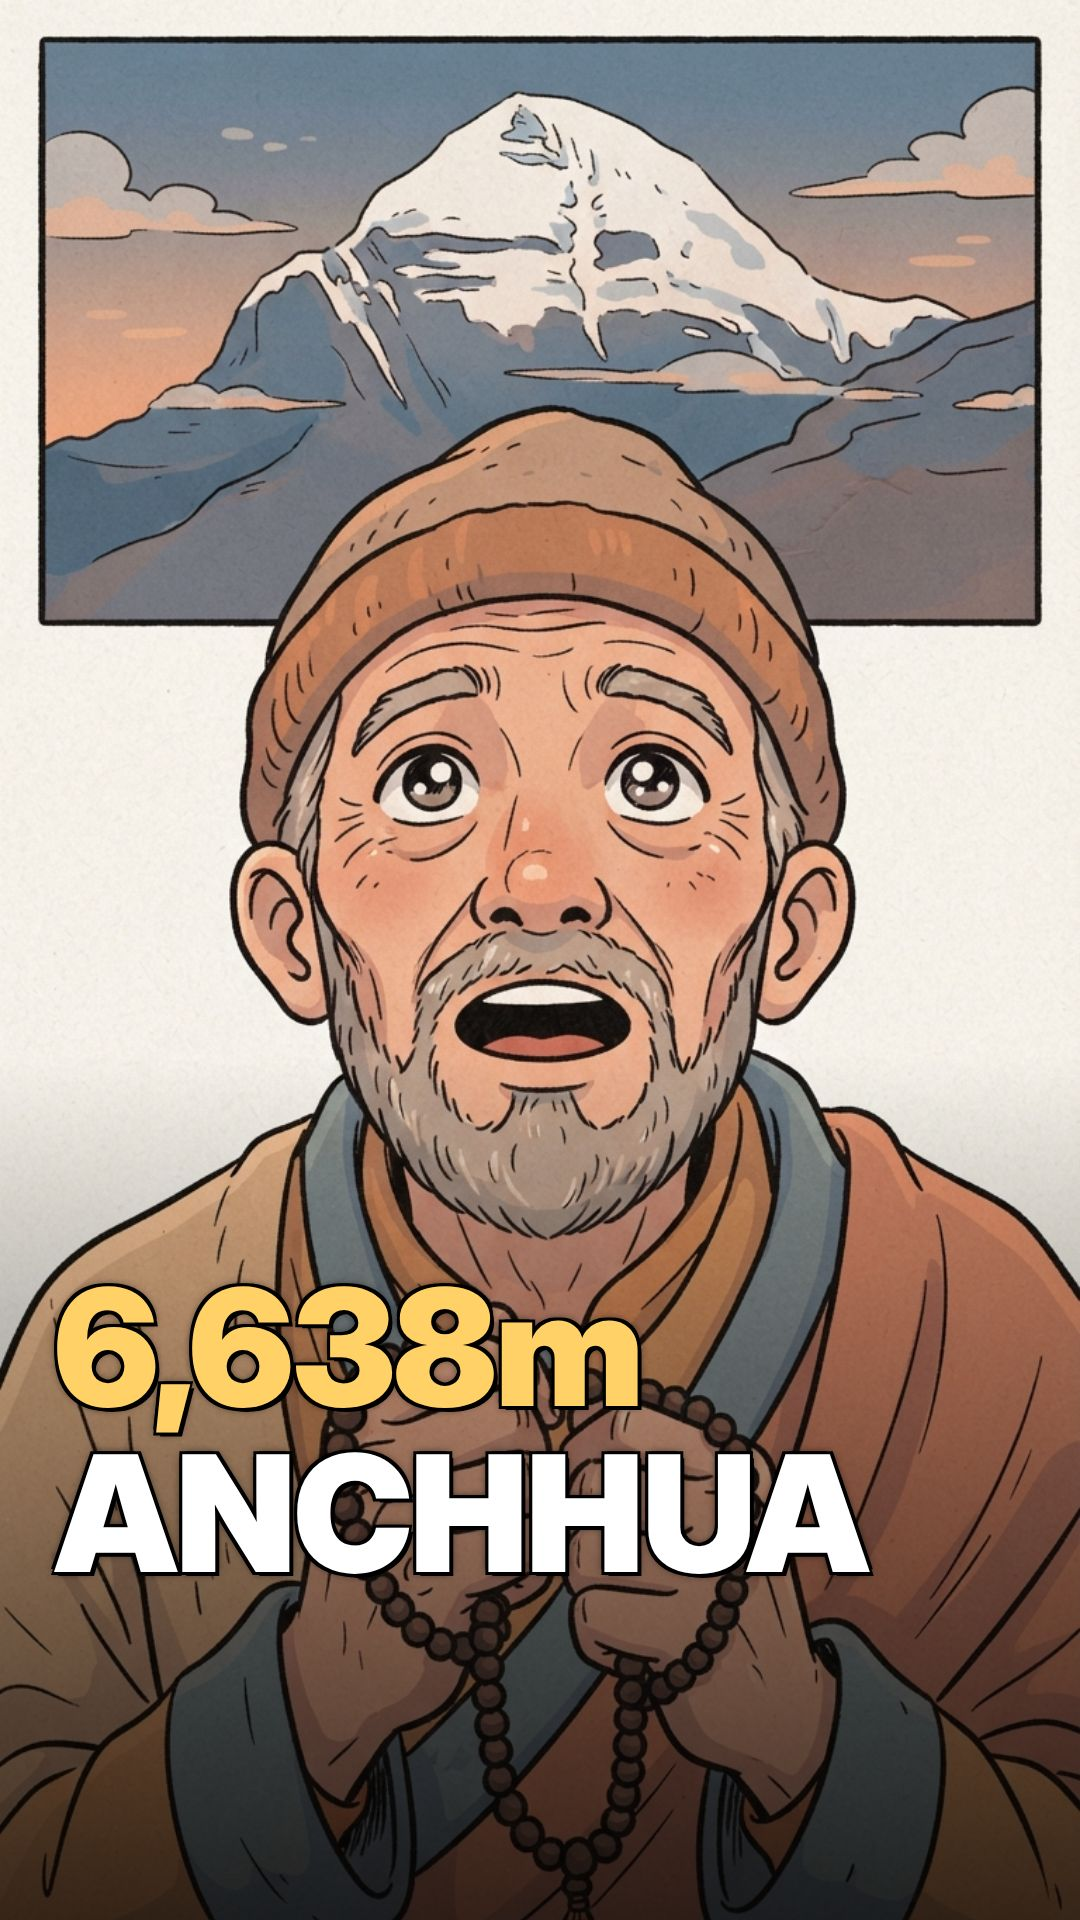
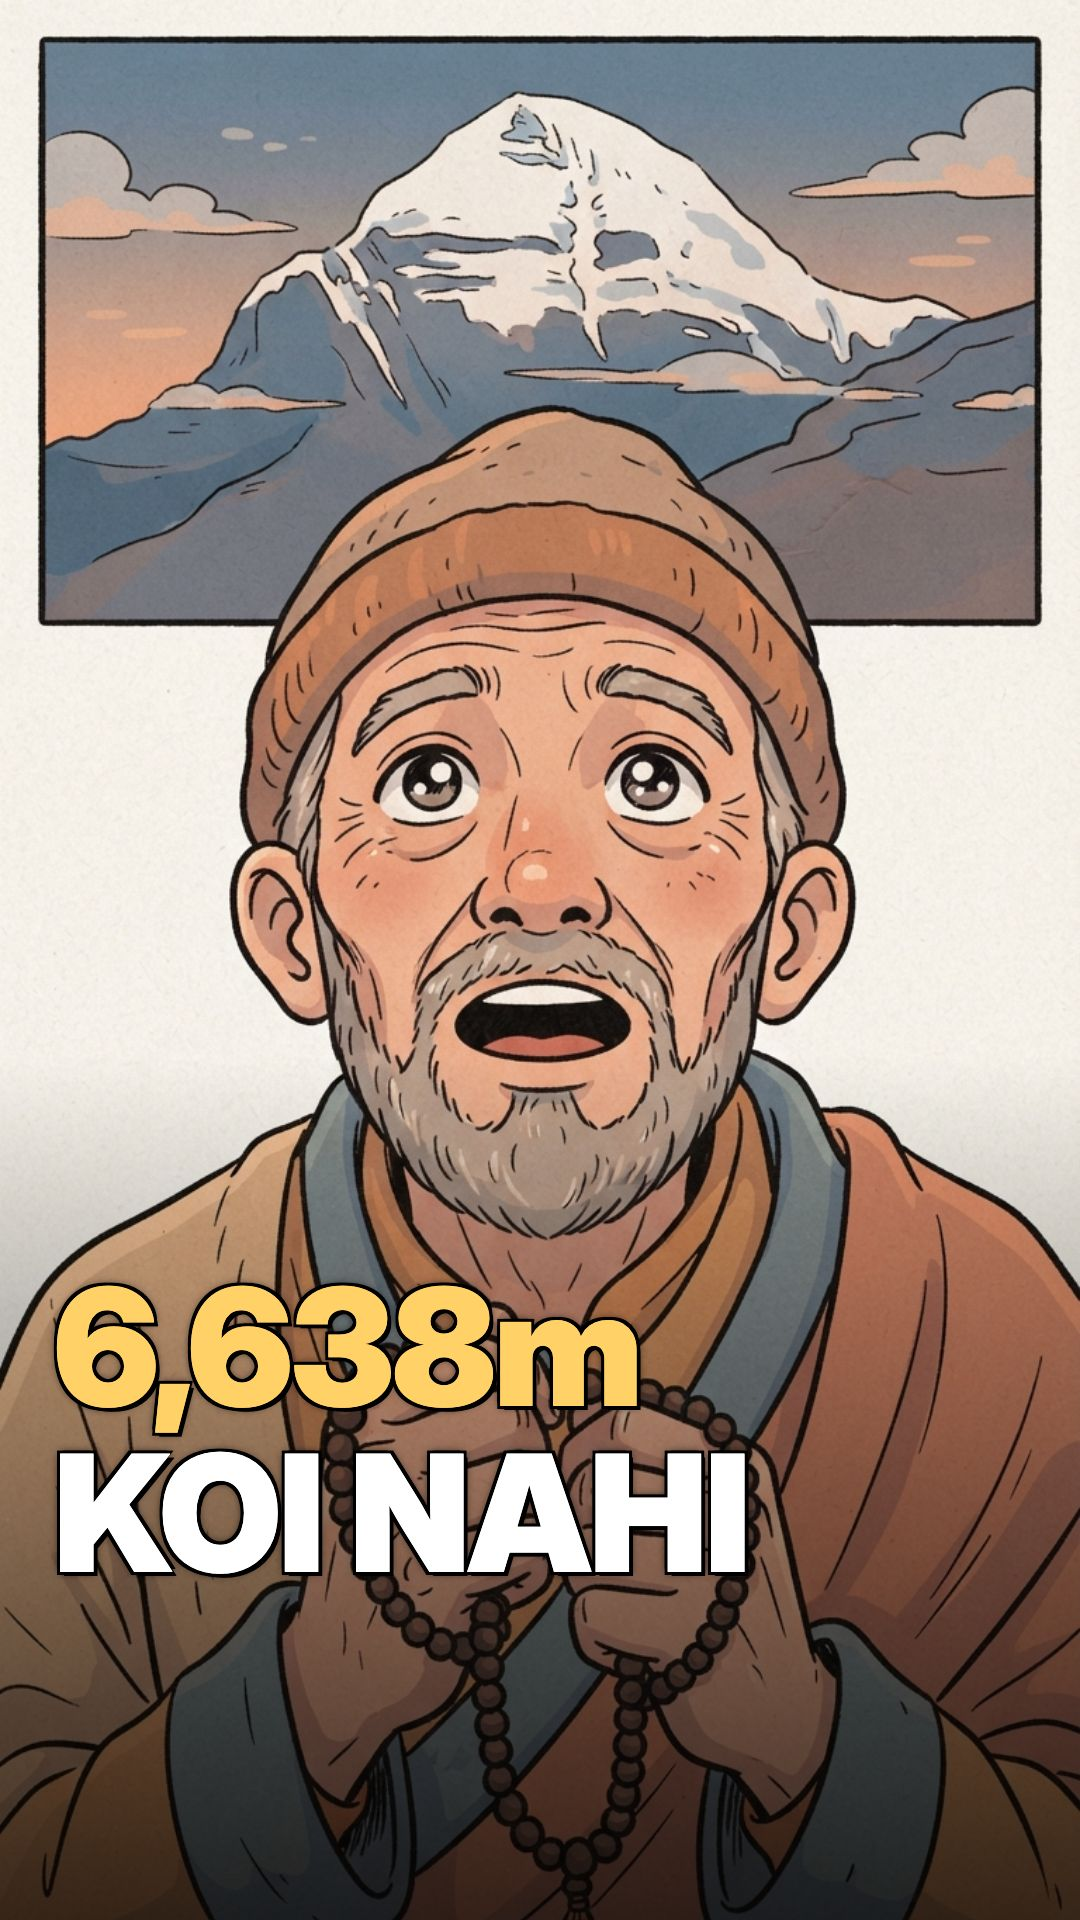
thumbnails: plain words only, kept inside the dark column; today's Kailash Short re-thumbed (6,638m / KOI NAHI)

diff --git a/templates/thumb2.html b/templates/thumb2.html
@@ -28,7 +28,7 @@ const ws=[...document.querySelectorAll(".w")],box=document.querySelector(".words
 let fs=Math.floor(H>W?W*0.15:H*0.26);
 const fit=()=>ws.forEach(w=>{w.style.fontSize=fs+"px"});
 fit();
-const limit=H>W?W*0.92:W*0.56;
+const limit=H>W?W*0.92:W*0.44;   // landscape: words stay inside the dark left column, never over the face
 const tall=()=>ws.reduce((a,w)=>a+w.offsetHeight,0)>H*0.9;
 while(fs>60&&(Math.max(...ws.map(w=>w.offsetWidth))>limit||tall())){fs-=6;fit()}
 </script>
